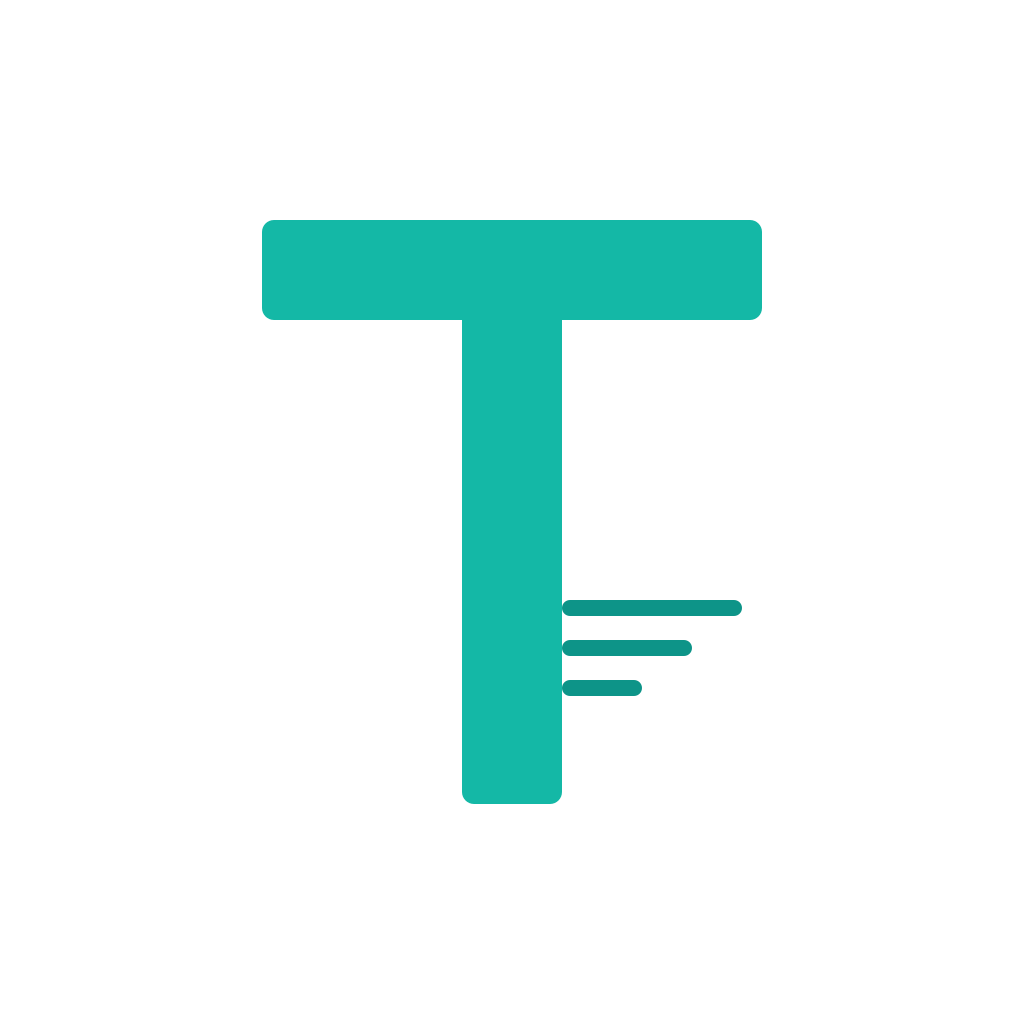
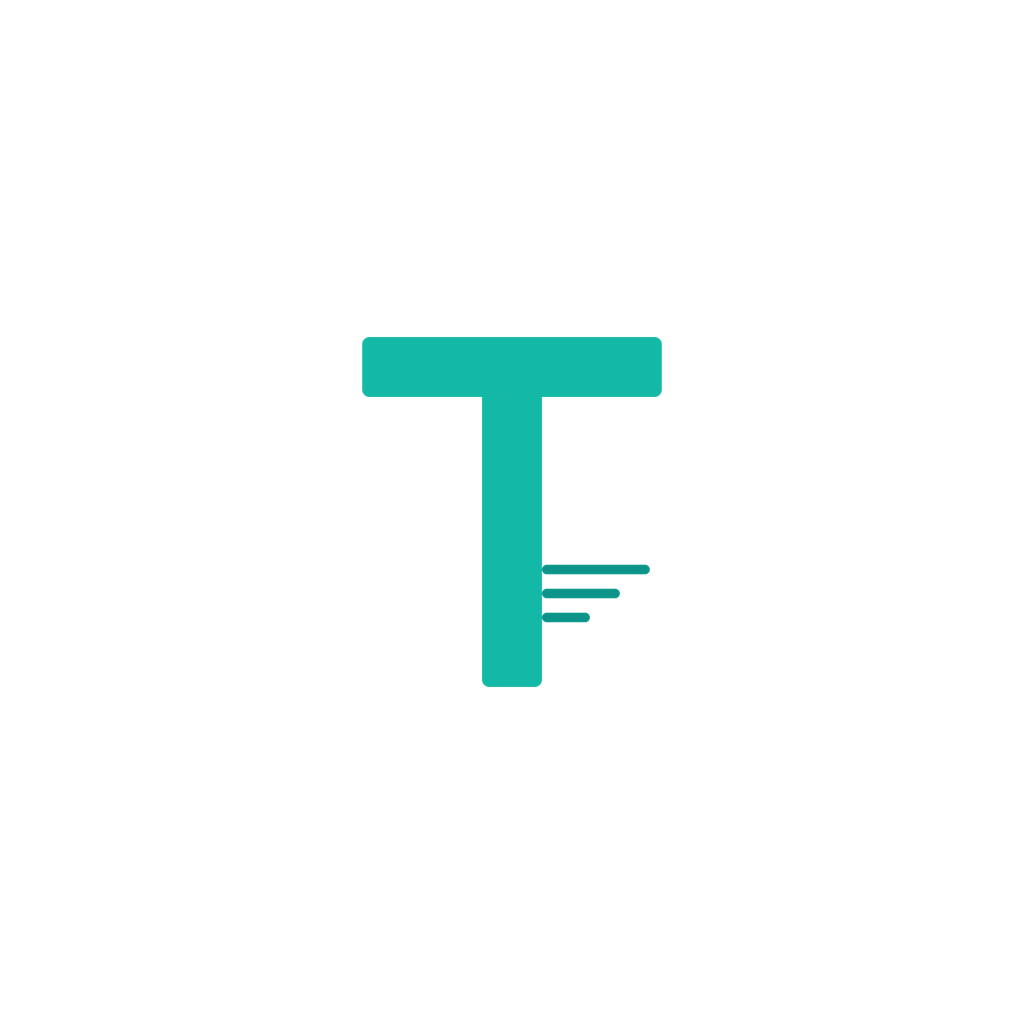
chore(mobile): update app config, assets, and Expo plugins
- app.config.js / app.json: update bundle identifiers and EAS config
- adaptive-icon.png: update app icon asset
- Add with-android-maestro-queries and with-native-build-fixes Expo plugins
- Add @expo/plist patch for Android build compatibility
- .env.example: add missing env var entries

Changed region(s): [[0.25, 0.1875, 0.75, 0.8125]]

diff --git a/apps/mobile/plugins/with-native-build-fixes.js b/apps/mobile/plugins/with-native-build-fixes.js
@@ -1,0 +1,198 @@
+const fs = require("fs");
+const path = require("path");
+
+const {
+  createRunOncePlugin,
+  withDangerousMod,
+  withPodfile,
+} = require("expo/config-plugins");
+
+const PODFILE_HELPER_START = "# BEGIN tech-clip native build fixes";
+const PODFILE_HELPER_END = "# END tech-clip native build fixes";
+
+function withNativeBuildFixes(config) {
+  config = withPodfile(config, (config) => {
+    const marketingVersion = JSON.stringify(config.version ?? "1.0");
+    const projectAbbreviation = "${_PROJECT_ABBREVIATION}";
+    const podsRoot = "${PODS_ROOT}";
+    const scriptOutputFile = "${SCRIPT_OUTPUT_FILE_0}";
+    const helperBlock = `${PODFILE_HELPER_START}
+def tech_clip_patch_native_projects!(installer)
+  share_view_controller_path = File.join(Pod::Config.instance.installation_root, '..', 'ShareExtension', 'ShareViewController.swift')
+  rn_google_mobile_ads_key_lookup = <<~'SCRIPT'.strip
+ruby -KU -e "require 'rubygems';require 'json'; output=JSON.parse('$1'); puts output[$_JSON_ROOT]['$2']"
+SCRIPT
+  rn_google_mobile_ads_key_replace = <<~'SCRIPT'.strip
+ruby -KU -e "require 'rubygems';require 'json'; output=JSON.parse('$1'); config=output[$_JSON_ROOT] || (output['expo'] && output['expo'][$_JSON_ROOT]) || {}; key='$2'; camel=key.gsub(/_([a-z])/) { $1.upcase }; puts config[key] || config[camel]"
+SCRIPT
+  rn_google_mobile_ads_exists_lookup = <<~'SCRIPT'.strip
+_RN_ROOT_EXISTS=$(ruby -KU -e "require 'rubygems';require 'json'; output=JSON.parse('$_JSON_OUTPUT_RAW'); puts output[$_JSON_ROOT]" || echo '')
+SCRIPT
+  rn_google_mobile_ads_exists_replace = <<~'SCRIPT'.strip
+_RN_ROOT_EXISTS=$(ruby -KU -e "require 'rubygems';require 'json'; output=JSON.parse('$_JSON_OUTPUT_RAW'); puts output[$_JSON_ROOT] || (output['expo'] && output['expo'][$_JSON_ROOT])" || echo '')
+SCRIPT
+  rn_google_mobile_ads_finish_lookup = <<~'SCRIPT'.strip
+echo "note: <- ${projectAbbreviation} build script finished"
+SCRIPT
+  rn_google_mobile_ads_finish_replace = <<~'SCRIPT'.strip
+touch "${scriptOutputFile}"
+
+echo "note: <- ${projectAbbreviation} build script finished"
+SCRIPT
+
+  installer.aggregate_targets.map(&:user_project).compact.uniq.each do |user_project|
+    user_project.native_targets.each do |target|
+      case target.name
+      when 'TechClip'
+        target.build_configurations.each do |build_configuration|
+          other_ldflags = Array(build_configuration.build_settings['OTHER_LDFLAGS']).reject { |flag| flag == '-lc++' }
+          build_configuration.build_settings['OTHER_LDFLAGS'] = other_ldflags
+        end
+
+        target.shell_script_build_phases.each do |phase|
+          next unless phase.name == '[CP-User] [RNGoogleMobileAds] Configuration'
+
+          phase.input_paths = [
+            '$(SRCROOT)/../app.json',
+            '$(BUILT_PRODUCTS_DIR)/$(INFOPLIST_PATH)',
+          ]
+          phase.output_paths = [
+            '$(DERIVED_FILE_DIR)/rn-google-mobile-ads-configured-$(CONFIGURATION).stamp',
+          ]
+
+          shell_script = phase.shell_script || ''
+          shell_script = shell_script.sub(rn_google_mobile_ads_key_lookup, rn_google_mobile_ads_key_replace)
+          shell_script = shell_script.sub(rn_google_mobile_ads_exists_lookup, rn_google_mobile_ads_exists_replace)
+          unless shell_script.include?('touch "${scriptOutputFile}"')
+            shell_script = shell_script.sub(rn_google_mobile_ads_finish_lookup, rn_google_mobile_ads_finish_replace)
+          end
+          phase.shell_script = shell_script
+        end
+      when 'ShareExtension'
+        target.build_configurations.each do |build_configuration|
+          build_configuration.build_settings['MARKETING_VERSION'] = ${marketingVersion}
+        end
+      end
+    end
+
+    user_project.save
+  end
+
+  installer.pods_project.targets.each do |target|
+    target.shell_script_build_phases.each do |phase|
+      next unless phase.name == '[CP-User] [Hermes] Replace Hermes for the right configuration, if needed'
+
+      phase.input_paths = ['${podsRoot}/../Podfile.lock']
+      phase.output_paths = ['$(DERIVED_FILE_DIR)/hermes-version-replaced-$(CONFIGURATION).stamp']
+
+      shell_script = phase.shell_script || ''
+      unless shell_script.include?('touch "${scriptOutputFile}"')
+        shell_script = shell_script.rstrip + "\\n\\ntouch \\\"${scriptOutputFile}\\\"\\n"
+      end
+      phase.shell_script = shell_script
+    end
+  end
+
+  installer.pods_project.save
+
+  if File.exist?(share_view_controller_path)
+    share_view_controller_source = File.read(share_view_controller_path)
+    patched_share_view_controller_source = share_view_controller_source.gsub(
+      'self.copyFile(at: url, to: tmp)',
+      'Self.copyFile(at: url, to: tmp)',
+    ).sub(
+      '  func copyFile(at srcURL: URL, to dstURL: URL) -> Bool {',
+      '  nonisolated static func copyFile(at srcURL: URL, to dstURL: URL) -> Bool {',
+    )
+
+    if patched_share_view_controller_source != share_view_controller_source
+      File.write(share_view_controller_path, patched_share_view_controller_source)
+    end
+  end
+end
+${PODFILE_HELPER_END}
+`;
+
+    const { contents } = config.modResults;
+    const helperPattern = new RegExp(
+      `${PODFILE_HELPER_START}[\\s\\S]*?${PODFILE_HELPER_END}\\n?`,
+      "m",
+    );
+    let nextContents = contents.replace(helperPattern, "");
+    nextContents = nextContents.replace(
+      "target 'TechClip' do",
+      `${helperBlock}\n\ntarget 'TechClip' do`,
+    );
+
+    const postInstallNeedle = `    react_native_post_install(
+      installer,
+      config[:reactNativePath],
+      :mac_catalyst_enabled => false,
+      :ccache_enabled => ccache_enabled?(podfile_properties),
+    )
+`;
+    if (!nextContents.includes("    tech_clip_patch_native_projects!(installer)\n")) {
+      nextContents = nextContents.replace(
+        postInstallNeedle,
+        `${postInstallNeedle}    tech_clip_patch_native_projects!(installer)\n`,
+      );
+    }
+
+    if (!nextContents.includes("  post_integrate do |installer|\n")) {
+      const postInstallHookNeedle = `  post_install do |installer|
+    react_native_post_install(
+      installer,
+      config[:reactNativePath],
+      :mac_catalyst_enabled => false,
+      :ccache_enabled => ccache_enabled?(podfile_properties),
+    )
+    tech_clip_patch_native_projects!(installer)
+  end
+`;
+      nextContents = nextContents.replace(
+        postInstallHookNeedle,
+        `${postInstallHookNeedle}
+  post_integrate do |installer|
+    tech_clip_patch_native_projects!(installer)
+  end
+`,
+      );
+    }
+
+    config.modResults.contents = nextContents;
+    return config;
+  });
+
+  config = withDangerousMod(config, [
+    "ios",
+    async (config) => {
+      const shareViewControllerPath = path.join(
+        config.modRequest.platformProjectRoot,
+        "ShareExtension",
+        "ShareViewController.swift",
+      );
+
+      if (!fs.existsSync(shareViewControllerPath)) {
+        return config;
+      }
+
+      const originalSource = fs.readFileSync(shareViewControllerPath, "utf8");
+      const patchedSource = originalSource
+        .replace(/self\.copyFile\(at: url, to: tmp\)/g, "Self.copyFile(at: url, to: tmp)")
+        .replace(
+          /(^\s*)(?:private\s+)?func copyFile\(at srcURL: URL, to dstURL: URL\) -> Bool \{/m,
+          "$1static func copyFile(at srcURL: URL, to dstURL: URL) -> Bool {",
+        );
+
+      if (patchedSource !== originalSource) {
+        fs.writeFileSync(shareViewControllerPath, patchedSource);
+      }
+
+      return config;
+    },
+  ]);
+
+  return config;
+}
+
+module.exports = createRunOncePlugin(withNativeBuildFixes, "with-native-build-fixes", "1.0.0");

diff --git a/apps/mobile/plugins/with-android-maestro-queries.js b/apps/mobile/plugins/with-android-maestro-queries.js
@@ -1,0 +1,37 @@
+const { withAndroidManifest } = require("expo/config-plugins");
+
+/**
+ * Adds dev.mobile.maestro to the Android manifest <queries> element.
+ * This is required on Android 11+ (API 30+) to allow the TechClip app
+ * to interact with the Maestro test driver (package visibility).
+ * Without this, Android's AppsFilter blocks cross-package communication
+ * and causes Maestro's gRPC connection to time out.
+ *
+ * Safe to include in all builds — <queries> only declares visibility,
+ * it grants no permissions and has no effect when Maestro is absent.
+ */
+function withAndroidMaestroQueries(config) {
+  return withAndroidManifest(config, (config) => {
+    const manifest = config.modResults.manifest;
+
+    if (!manifest.queries) {
+      manifest.queries = [];
+    }
+
+    const alreadyAdded = manifest.queries.some(
+      (q) =>
+        Array.isArray(q.package) &&
+        q.package.some((p) => p.$?.["android:name"] === "dev.mobile.maestro"),
+    );
+
+    if (!alreadyAdded) {
+      manifest.queries.push({
+        package: [{ $: { "android:name": "dev.mobile.maestro" } }],
+      });
+    }
+
+    return config;
+  });
+}
+
+module.exports = withAndroidMaestroQueries;

diff --git a/apps/mobile/app.config.js b/apps/mobile/app.config.js
@@ -7,6 +7,14 @@ const config = {
   extra: {
     ...baseConfig.expo.extra,
     apiUrl: process.env.EXPO_PUBLIC_API_URL ?? "http://localhost:8787",
+    apiUrlIos:
+      process.env.EXPO_PUBLIC_API_URL_IOS ??
+      process.env.EXPO_PUBLIC_API_URL ??
+      "http://127.0.0.1:8787",
+    apiUrlAndroid:
+      process.env.EXPO_PUBLIC_API_URL_ANDROID ??
+      process.env.EXPO_PUBLIC_API_URL ??
+      "http://10.0.2.2:8787",
   },
 };
 
